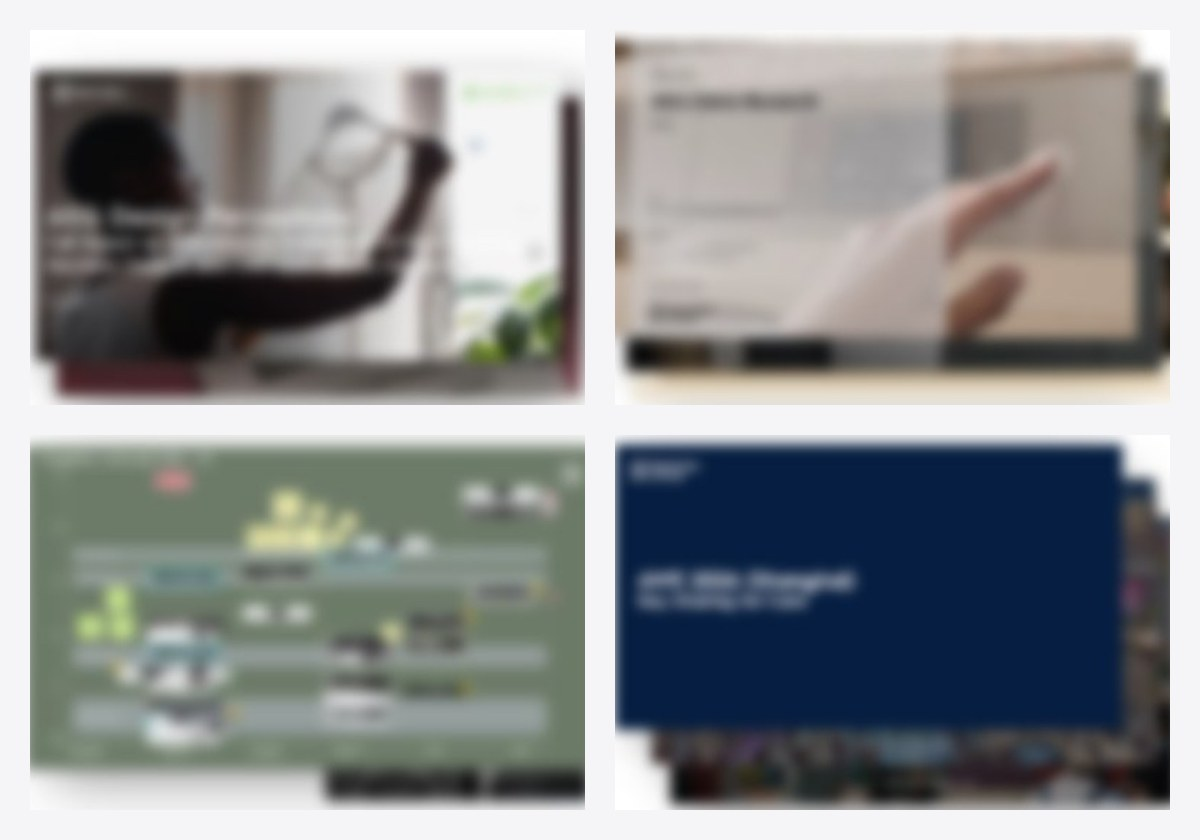
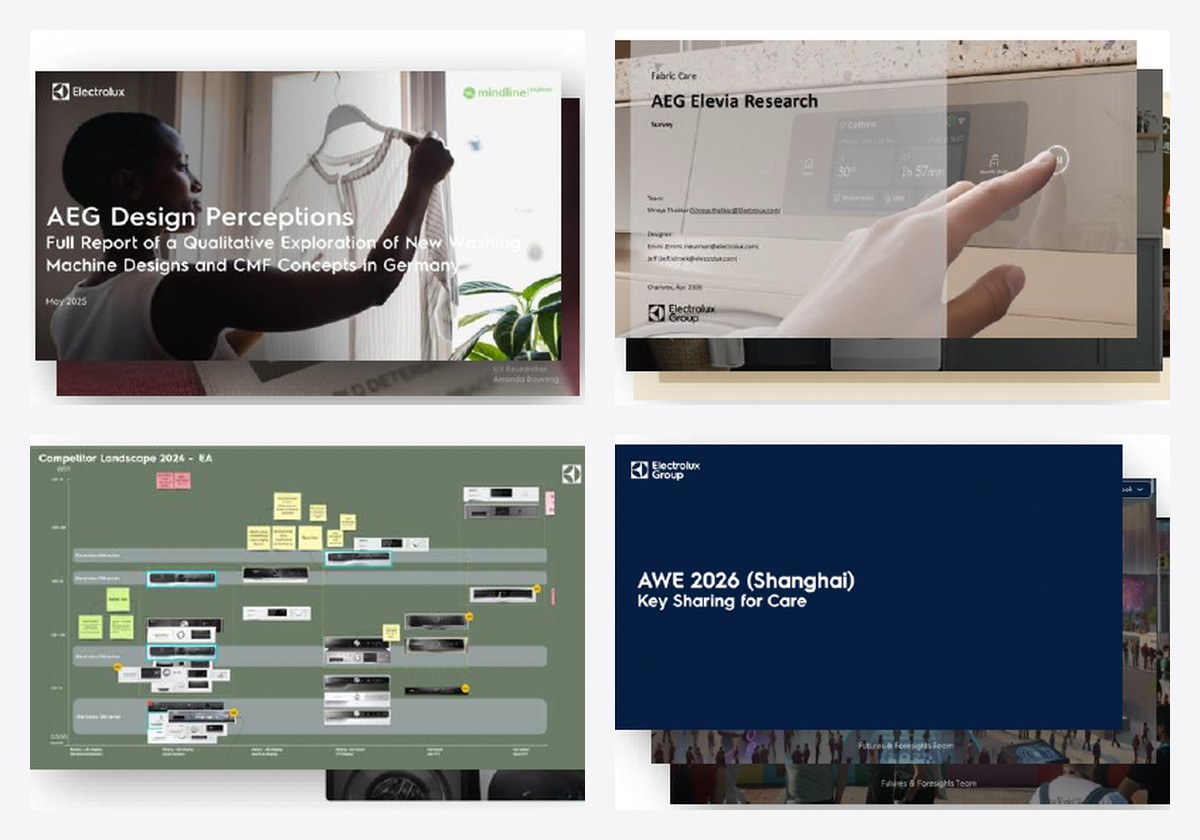
Laundry: unblurred signals with connector, UI wording, Also found insights on Premium
Claude-Session: https://claude.ai/code/session_01LRwu9cBfp7AtzkdkiroN5a

Changed region(s): [[0.0, 0.031, 0.9867, 0.9905], [0.7708, 0.2786, 0.8325, 0.3405]]

diff --git a/projects/laundry-systems.html b/projects/laundry-systems.html
@@ -294,6 +294,19 @@ header.top .lede{margin:0;max-width:none}
 
 .disc h3.q{font-style:italic;font-weight:500}
 
+
+.dtri{position:relative;column-gap:48px}
+.dtri::before{content:"";position:absolute;top:120px;left:calc((100% - 48px)*.4 + 6px);width:30px;border-top:2px dotted #8e8e93}
+.dtri::after{content:"";position:absolute;top:115px;left:calc((100% - 48px)*.4 + 36px);border-left:7px solid #8e8e93;border-top:6px solid transparent;border-bottom:6px solid transparent}
+@media(max-width:720px){.dtri::before,.dtri::after{display:none}}
+
+.also{margin:32px 0 0}
+.alsoh{margin:0 0 12px;font-size:14px;font-weight:600;color:var(--muted)}
+.alsos{display:grid;grid-template-columns:repeat(2,minmax(0,1fr));gap:16px}
+@media(max-width:720px){.alsos{grid-template-columns:minmax(0,1fr)}}
+.alsos div{background:var(--inset);border-radius:14px;padding:18px 20px}
+.alsos b{display:block;font-size:16px;font-weight:600;letter-spacing:-.015em;color:var(--ink);margin:0 0 6px}
+.alsos span{display:block;font-size:15px;line-height:1.45;color:var(--muted)}
 </style>
 <link rel="icon" href="/favicon.svg" type="image/svg+xml">
 <link rel="icon" href="/favicon-32.png" sizes="32x32" type="image/png">
@@ -450,17 +463,21 @@ header.top .lede{margin:0;max-width:none}
         <div><dt>Recommended</dt><dd>Build premium signals into both hardware and software interactions, triangulated with futures research on trade shows and adjacent industries.</dd></div>
         <div class="chg"><dt>What changed</dt><dd><ul class="dlist"><li>Desirability ratings rose in later concept testing</li><li>Informed the CMF strategy</li><li>Shaped control panel design and personalization, such as favorite cycles</li></ul></dd></div>
       </dl>
+      <div class="also"><p class="alsoh">Also found</p><div class="alsos">
+        <div><b>Premium ≠ preferred</b><span>In the EU especially, what looks premium and what people want to live with were different things.</span></div>
+        <div><b>Longevity is the silent decision-maker</b><span>“Will this age well?” separated concepts people admired from the ones they would commit to.</span></div>
+      </div></div>
     </article>
     <article class="disc" id="d3">
       <p class="dnum">04 · Controls</p>
       <h3>Balancing the experience in every tier with cost</h3>
-      <div class="dpair">
-        <figure class="dcell"><div class="dbox dphoto"><img src="../images/laundry-signals-grid.jpg?v=1" width="1200" height="840" alt="Four kinds of research, shown as blurred report covers: in-depth interviews, perception surveys, competitive UI benchmarking, and trade show reviews" loading="lazy"></div><figcaption>Triangulated across four methods</figcaption></figure>
+      <div class="dpair dtri">
+        <figure class="dcell"><div class="dbox dphoto"><img src="../images/laundry-signals-grid.jpg?v=2" width="1200" height="840" alt="Four kinds of research, shown as report covers: in-depth interviews, perception surveys, competitive UI benchmarking, and trade show reviews" loading="lazy"></div><figcaption>Triangulated across four methods</figcaption></figure>
         <figure class="dcell"><div class="dbox"><svg class="dpanels dtier" viewBox="0 0 640 300" role="img" aria-label="Controls by tier. Lower tiers use a control knob; the display knob was not carried forward. Upper tiers use no knob: cap touch, then a full touchscreen at the top. Cap touch led on visual appeal and usability. Cost rises with each tier."><g><rect class="sl" x="10" y="206" width="140" height="44" rx="8"/><g transform="translate(14 126)"><g transform="translate(0 0)"><rect width="132" height="66" rx="9" fill="#2b2d31"/><circle cx="30" cy="33" r="15" fill="#3b3f45" stroke="#9aa0a7" stroke-width="1.2"/><path d="M30 21 V27" stroke="#e9ebee" stroke-width="1.6" stroke-linecap="round"/><rect x="56" y="23" width="34" height="20" rx="3" fill="#0b0c0e" stroke="#3a3d42" stroke-width=".8"/><text x="73.0" y="36.5" font-family="-apple-system,BlinkMacSystemFont,Inter,system-ui,sans-serif" font-size="10" font-weight="300" fill="#f2f3f5" text-anchor="middle">0:45</text><rect x="98" y="14" width="22" height="8" rx="4" fill="none" stroke="#7a8089" stroke-width=".9"/><rect x="98" y="28" width="22" height="8" rx="4" fill="none" stroke="#7a8089" stroke-width=".9"/><rect x="98" y="42" width="22" height="8" rx="4" fill="none" stroke="#7a8089" stroke-width=".9"/></g></g><text x="80" y="228" font-family="-apple-system,BlinkMacSystemFont,Inter,system-ui,sans-serif" font-size="13" font-weight="600" class="lt" text-anchor="middle">Control knob</text><text x="80" y="244" font-family="-apple-system,BlinkMacSystemFont,Inter,system-ui,sans-serif" font-size="11" font-weight="500" class="ls" text-anchor="middle">with LED screen</text></g><g opacity=".35"><rect class="sl" x="170" y="180" width="140" height="70" rx="8"/><g transform="translate(174 100)"><g transform="translate(0 0)"><rect width="132" height="66" rx="9" fill="#2b2d31"/><circle cx="66" cy="33" r="22" fill="#3b3f45" stroke="#9aa0a7" stroke-width="1.2"/><circle cx="66" cy="33" r="17" fill="#0b0c0e"/><text x="66" y="36" font-family="-apple-system,BlinkMacSystemFont,Inter,system-ui,sans-serif" font-size="7.5" font-weight="300" fill="#f2f3f5" text-anchor="middle">0:45</text><rect x="14" y="16" width="20" height="8" rx="4" fill="none" stroke="#7a8089" stroke-width=".9"/><rect x="14" y="30" width="20" height="8" rx="4" fill="none" stroke="#7a8089" stroke-width=".9"/><rect x="14" y="44" width="20" height="8" rx="4" fill="none" stroke="#7a8089" stroke-width=".9"/><rect x="100" y="16" width="20" height="8" rx="4" fill="none" stroke="#7a8089" stroke-width=".9"/><rect x="100" y="30" width="20" height="8" rx="4" fill="none" stroke="#7a8089" stroke-width=".9"/><rect x="100" y="44" width="20" height="8" rx="4" fill="none" stroke="#7a8089" stroke-width=".9"/></g></g><text x="240" y="202" font-family="-apple-system,BlinkMacSystemFont,Inter,system-ui,sans-serif" font-size="13" font-weight="600" class="lt" text-anchor="middle">Display knob</text><text x="240" y="218" font-family="-apple-system,BlinkMacSystemFont,Inter,system-ui,sans-serif" font-size="11" font-weight="500" class="ls" text-anchor="middle">knob as the screen</text></g><g><rect class="su" x="330" y="154" width="140" height="96" rx="8"/><g transform="translate(334 74)"><g transform="translate(0 0)"><rect width="132" height="66" rx="9" fill="#2b2d31"/><rect x="8" y="14" width="17" height="8" rx="4" fill="#e9ebee" stroke="#e9ebee" stroke-width=".9"/><rect x="28" y="14" width="17" height="8" rx="4" fill="none" stroke="#7a8089" stroke-width=".9"/><rect x="8" y="28" width="17" height="8" rx="4" fill="none" stroke="#7a8089" stroke-width=".9"/><rect x="28" y="28" width="17" height="8" rx="4" fill="none" stroke="#7a8089" stroke-width=".9"/><rect x="8" y="42" width="17" height="8" rx="4" fill="none" stroke="#7a8089" stroke-width=".9"/><rect x="28" y="42" width="17" height="8" rx="4" fill="none" stroke="#7a8089" stroke-width=".9"/><rect x="51" y="23" width="30" height="20" rx="3" fill="#0b0c0e" stroke="#3a3d42" stroke-width=".8"/><text x="66.0" y="36.5" font-family="-apple-system,BlinkMacSystemFont,Inter,system-ui,sans-serif" font-size="10" font-weight="300" fill="#f2f3f5" text-anchor="middle">0:45</text><rect x="86" y="14" width="17" height="8" rx="4" fill="none" stroke="#7a8089" stroke-width=".9"/><rect x="106" y="14" width="17" height="8" rx="4" fill="none" stroke="#7a8089" stroke-width=".9"/><rect x="86" y="28" width="17" height="8" rx="4" fill="none" stroke="#7a8089" stroke-width=".9"/><rect x="106" y="28" width="17" height="8" rx="4" fill="none" stroke="#7a8089" stroke-width=".9"/><rect x="86" y="42" width="17" height="8" rx="4" fill="none" stroke="#7a8089" stroke-width=".9"/><rect x="106" y="42" width="17" height="8" rx="4" fill="none" stroke="#7a8089" stroke-width=".9"/></g></g><text x="400" y="176" font-family="-apple-system,BlinkMacSystemFont,Inter,system-ui,sans-serif" font-size="13" font-weight="600" class="lw" text-anchor="middle">Cap touch</text><text x="400" y="192" font-family="-apple-system,BlinkMacSystemFont,Inter,system-ui,sans-serif" font-size="11" font-weight="500" class="lw2" text-anchor="middle">all options visible</text></g><g><rect class="su" x="490" y="128" width="140" height="122" rx="8"/><g transform="translate(494 48)"><g transform="translate(0 0)"><rect width="132" height="66" rx="9" fill="#0b0c0e"/><rect x="22" y="10" width="88" height="46" rx="5" fill="#16181b" stroke="#4a4f57" stroke-width=".8"/><rect x="30" y="18" width="20" height="10" rx="3" fill="#2a2e34"/><rect x="56" y="18" width="20" height="10" rx="3" fill="#2a2e34"/><rect x="82" y="18" width="20" height="10" rx="3" fill="#2a2e34"/><rect x="30" y="33" width="20" height="10" rx="3" fill="#2a2e34"/><rect x="56" y="33" width="20" height="10" rx="3" fill="#2a2e34"/><rect x="82" y="33" width="20" height="10" rx="3" fill="#2a2e34"/></g></g><text x="560" y="150" font-family="-apple-system,BlinkMacSystemFont,Inter,system-ui,sans-serif" font-size="13" font-weight="600" class="lw" text-anchor="middle">Full touch</text><text x="560" y="166" font-family="-apple-system,BlinkMacSystemFont,Inter,system-ui,sans-serif" font-size="11" font-weight="500" class="lw2" text-anchor="middle">large touchscreen</text></g><text x="400" y="218" font-family="-apple-system,BlinkMacSystemFont,Inter,system-ui,sans-serif" font-size="10.5" font-weight="600" class="tc" text-anchor="middle">Led on visual appeal</text><text x="400" y="232" font-family="-apple-system,BlinkMacSystemFont,Inter,system-ui,sans-serif" font-size="10.5" font-weight="600" class="tc" text-anchor="middle">+ usability</text><path class="gm" d="M10 262 v6 h300 v-6" fill="none" stroke-width="1"/><text x="160" y="286" font-family="-apple-system,BlinkMacSystemFont,Inter,system-ui,sans-serif" font-size="11.5" font-weight="600" class="ls" text-anchor="middle">Knob · lower tiers</text><path class="ga" d="M330 262 v6 h300 v-6" fill="none" stroke-width="1.3"/><text x="480" y="286" font-family="-apple-system,BlinkMacSystemFont,Inter,system-ui,sans-serif" font-size="11.5" font-weight="600" class="tc" text-anchor="middle">No knob · upper tiers</text><path class="ga" d="M16 30 L622 30" fill="none" stroke-width="1.2"/><path class="ga" d="M614 25 L622 30 L614 35" fill="none" stroke-width="1.2" stroke-linejoin="round"/><text x="16" y="20" font-family="-apple-system,BlinkMacSystemFont,Inter,system-ui,sans-serif" font-size="10.5" font-weight="600" class="ls" text-anchor="start">Cost and tier rise</text></svg></div><figcaption>Concepts tested and how controls were tiered</figcaption></figure>
       </div>
       <dl class="dsteps">
         <div><dt>Team believed</dt><dd>Full touchscreens are the future, so every tier should move to one.</dd></div>
-        <div><dt>Research showed</dt><dd>No single study decided this. Interviews, perception surveys, competitive UI benchmarks, and trade shows across the EU and NA pointed the same way: visible options mattered more than a big screen. In an NA survey of about 250 people, cap touch led on visual appeal and usability.</dd></div>
+        <div><dt>Research showed</dt><dd>No single study decided this. In-depth interviews, UI perception surveys, competitive UI benchmarks, and trade shows across the EU and NA pointed the same way: on the control panel UI, visible options mattered more than a big screen. In an NA survey of about 250 people, cap touch led on visual appeal and usability.</dd></div>
         <div><dt>Recommended</dt><dd>Match the controls to each tier’s cost: no-knob touch panels at the top, a control knob in lower tiers, with key options visible in both.</dd></div>
         <div class="chg"><dt>What changed</dt><dd>The team tiered the controls: no knob in upper tiers, a knob in lower tiers.</dd></div>
       </dl>
